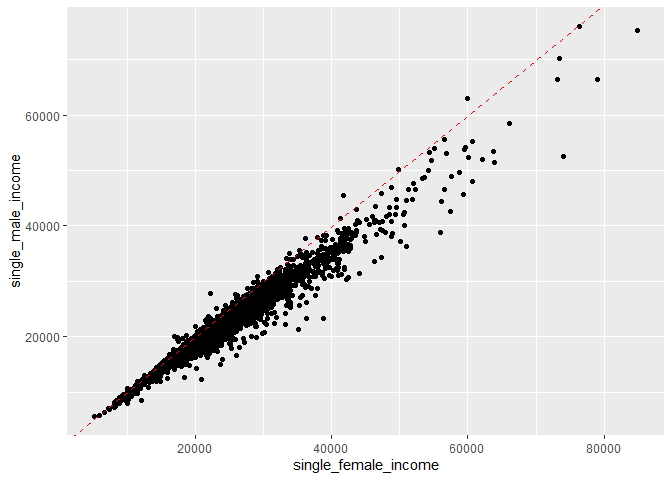
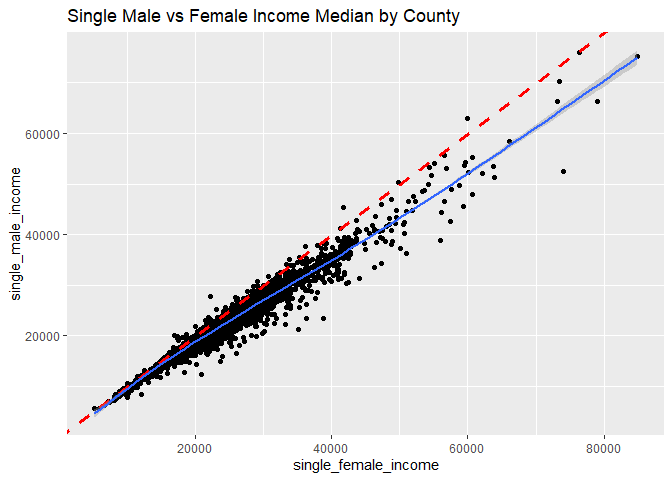
post q8 presentation plot revision

diff --git a/challenges/c09-income-assignment.md b/challenges/c09-income-assignment.md
@@ -530,6 +530,7 @@ States: Pose your own question and try to answer it with the data.
 ``` r
 ## TODO: Pose and answer your own question about the data
 
+
 df_q8 <-
   df_income %>%
   select(Geography,
@@ -545,7 +546,8 @@ df_q8 <-
   mutate(
     single_female_income = as.numeric(single_female_income),
     single_male_income = as.numeric(single_male_income)
-  )
+  ) %>%
+  left_join(df_pop, by = "Geography") 
 ```
 
     ## Warning: There were 2 warnings in `mutate()`.
@@ -560,8 +562,15 @@ df_q8 %>%
 ggplot(aes(x = single_female_income, y = single_male_income)) +
   geom_point() +
   geom_abline(
-    slope = 1, intercept = 0, linetype = "dashed", color = "red")
+    slope = 1, intercept = 0, linetype = "dashed", color = "red", linewidth = 1.2) +
+  geom_smooth()+
+  labs(title = "Single Male vs Female Income Median by County")
 ```
+
+    ## `geom_smooth()` using method = 'gam' and formula = 'y ~ s(x, bs = "cs")'
+
+    ## Warning: Removed 17 rows containing non-finite outside the scale range
+    ## (`stat_smooth()`).
 
     ## Warning: Removed 17 rows containing missing values or values outside the scale range
     ## (`geom_point()`).
@@ -573,23 +582,23 @@ df_q8 %>%
   filter(
     single_male_income < single_female_income - 10000) %>%
   mutate(income_gap = single_female_income - single_male_income) %>%
-  select(county, income_gap, single_female_income, single_male_income) %>%
-  arrange(desc(income_gap))
+  select(county, income_gap, single_female_income, population_estimate, single_male_income) %>%
+  arrange(desc(income_gap)) 
 ```
 
-    ## # A tibble: 28 × 4
-    ##    county                     income_gap single_female_income single_male_income
-    ##    <chr>                           <dbl>                <dbl>              <dbl>
-    ##  1 San Francisco County, Cal…      21547                74021              52474
-    ##  2 Eagle County, Colorado          17109                55923              38814
-    ##  3 Aleutians East Borough, A…      15417                38750              23333
-    ##  4 Bristol Bay Borough, Alas…      15000                57500              42500
-    ##  5 Teton County, Wyoming           14697                50947              36250
-    ##  6 Gunnison County, Colorado       13894                35129              21235
-    ##  7 Roberts County, Texas           13750                59375              45625
-    ##  8 Manassas city, Virginia         13012                47371              34359
-    ##  9 Delta County, Texas             12917                36250              23333
-    ## 10 Gilpin County, Colorado         12846                50096              37250
+    ## # A tibble: 28 × 5
+    ##    county income_gap single_female_income population_estimate single_male_income
+    ##    <chr>       <dbl>                <dbl>               <dbl>              <dbl>
+    ##  1 San F…      21547                74021              870044              52474
+    ##  2 Eagle…      17109                55923               54357              38814
+    ##  3 Aleut…      15417                38750                3425              23333
+    ##  4 Brist…      15000                57500                 890              42500
+    ##  5 Teton…      14697                50947               23059              36250
+    ##  6 Gunni…      13894                35129               16537              21235
+    ##  7 Rober…      13750                59375                 885              45625
+    ##  8 Manas…      13012                47371               41457              34359
+    ##  9 Delta…      12917                36250                5215              23333
+    ## 10 Gilpi…      12846                50096                5924              37250
     ## # ℹ 18 more rows
 
 ``` r
@@ -597,43 +606,106 @@ df_q8 %>%
   filter(
     single_female_income < single_male_income - 2000) %>%
   mutate(income_gap = single_male_income - single_female_income) %>%
-  select(county, income_gap, single_male_income, single_female_income) %>%
+  select(county, income_gap, population_estimate, single_male_income, single_female_income) %>%
   arrange(desc(income_gap))
 ```
 
-    ## # A tibble: 8 × 4
-    ##   county                      income_gap single_male_income single_female_income
-    ##   <chr>                            <dbl>              <dbl>                <dbl>
-    ## 1 Trousdale County, Tennessee       5544              27772                22228
-    ## 2 Borden County, Texas              3750              45417                41667
-    ## 3 Menard County, Texas              3137              20069                16932
-    ## 4 Manassas Park city, Virgin…       2950              62950                60000
-    ## 5 Adair County, Missouri            2734              19896                17162
-    ## 6 Walker County, Texas              2356              19779                17423
-    ## 7 Golden Valley County, Nort…       2054              19432                17378
-    ## 8 Prince Edward County, Virg…       2028              25147                23119
+    ## # A tibble: 8 × 5
+    ##   county  income_gap population_estimate single_male_income single_female_income
+    ##   <chr>        <dbl>               <dbl>              <dbl>                <dbl>
+    ## 1 Trousd…       5544                9573              27772                22228
+    ## 2 Borden…       3750                 665              45417                41667
+    ## 3 Menard…       3137                2123              20069                16932
+    ## 4 Manass…       2950               16423              62950                60000
+    ## 5 Adair …       2734               25325              19896                17162
+    ## 6 Walker…       2356               71539              19779                17423
+    ## 7 Golden…       2054                1882              19432                17378
+    ## 8 Prince…       2028               22956              25147                23119
+
+``` r
+top_female_gaps <- df_q8 %>%
+  mutate(
+    income_gap = single_female_income - single_male_income
+  ) %>%
+  filter(income_gap > 0) %>%
+  arrange(desc(income_gap)) %>%
+  slice_head(n = 10) %>%
+  select(
+    County = county,
+    "Income Gap" = income_gap,
+    Population = population_estimate
+  )
+
+top_female_gaps
+```
+
+    ## # A tibble: 10 × 3
+    ##    County                           `Income Gap` Population
+    ##    <chr>                                   <dbl>      <dbl>
+    ##  1 San Francisco County, California        21547     870044
+    ##  2 Eagle County, Colorado                  17109      54357
+    ##  3 Aleutians East Borough, Alaska          15417       3425
+    ##  4 Bristol Bay Borough, Alaska             15000        890
+    ##  5 Teton County, Wyoming                   14697      23059
+    ##  6 Gunnison County, Colorado               13894      16537
+    ##  7 Roberts County, Texas                   13750        885
+    ##  8 Manassas city, Virginia                 13012      41457
+    ##  9 Delta County, Texas                     12917       5215
+    ## 10 Gilpin County, Colorado                 12846       5924
+
+``` r
+top_male_gaps <- df_q8 %>%
+  mutate(
+    income_gap = single_male_income - single_female_income
+  ) %>%
+  filter(income_gap > 0) %>%
+  arrange(desc(income_gap)) %>%
+  slice_head(n = 10) %>%
+  select(
+    County = county,
+    "Income Gap" = income_gap,
+    Population = population_estimate
+  )
+top_male_gaps
+```
+
+    ## # A tibble: 10 × 3
+    ##    County                             `Income Gap` Population
+    ##    <chr>                                     <dbl>      <dbl>
+    ##  1 Trousdale County, Tennessee                5544       9573
+    ##  2 Borden County, Texas                       3750        665
+    ##  3 Menard County, Texas                       3137       2123
+    ##  4 Manassas Park city, Virginia               2950      16423
+    ##  5 Adair County, Missouri                     2734      25325
+    ##  6 Walker County, Texas                       2356      71539
+    ##  7 Golden Valley County, North Dakota         2054       1882
+    ##  8 Prince Edward County, Virginia             2028      22956
+    ##  9 Pope County, Illinois                      1875       4249
+    ## 10 Harrisonburg city, Virginia                1699      53391
 
 **Observations**:
 
 - Overall, there is a positive association, where in counties that have
   higher single female income also have higher single male income.
   However, a significant portion of the data in under the dashed line,
-  which indicates that in a significant number of counties, single women
-  have a slightly lower income than single men. The biggest differences
-  in favor of single women are in places like San Francisco County,
-  California, and Eagle County, Colorado. A few smaller counties in
-  Alaska and Colorado also stand out. On the other hand the biggest
+  which indicates that in a significant number of counties, single men
+  have a slightly lower income than single wommen. The biggest
+  differences in favor of single women are in places like San Francisco
+  County, California, and Eagle County, Colorado. A few smaller counties
+  in Alaska and Colorado also stand out. On the other hand the biggest
   differences in favor of single men are in Trousdale County, Tennessee,
   and Borden County, Texas. Overall, the male dominated outliers seem to
-  have smaller income gaps than the female dominated ones. There are a
-  number of possible explanations for this. One could be the industries
-  each county. Differences in education, age, and the types of people
-  moving into certain areas could also contribute. Also, many of the
-  outlier counties have relatively small populations, meaning that a
-  small number of high earners could have a larger impact on the median
-  income. It would be interesting to do a deeper dive into these
-  counties beyond just looking at their medians to figure out what’s
-  going on.
+  have smaller income gaps than the female dominated ones. This is
+  seemingly antithetical to the known and studied gender pay gap. This
+  pattern appears to contradict the well established gender pay gap. The
+  most likely explanation is the dataset’s limitations. Income can only
+  be separated by gender for single-person households, meaning that
+  these results don’t completely represent the broader population of
+  working men and women. Differences in things like industry and age may
+  also add to the pattern. As a resutl, while this analysis shows
+  differences in income between single men and women across counties, it
+  cannot establish whether these differences reflect broader gender
+  discrimination or the broader gender pay gap.
 
 Ideas:
 
